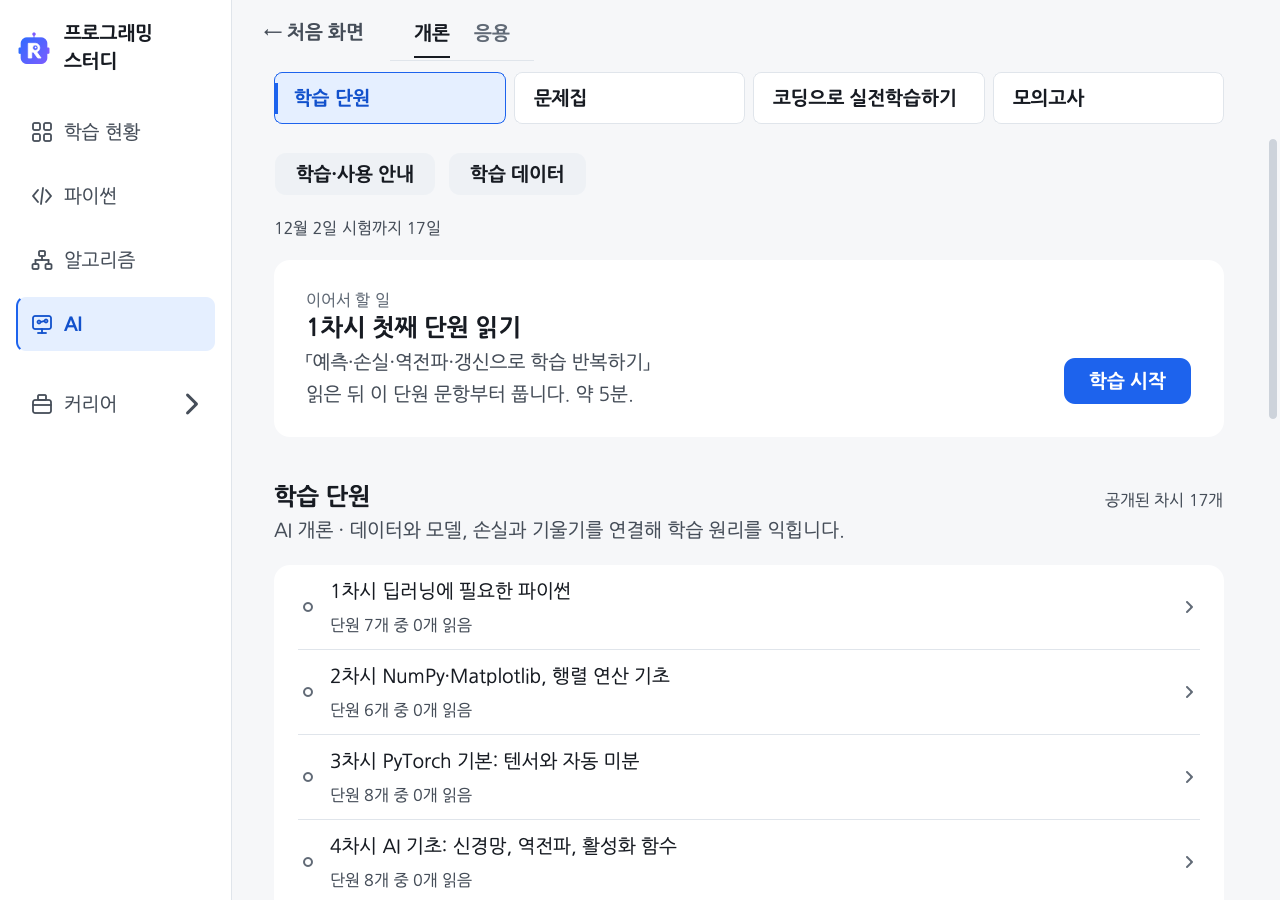
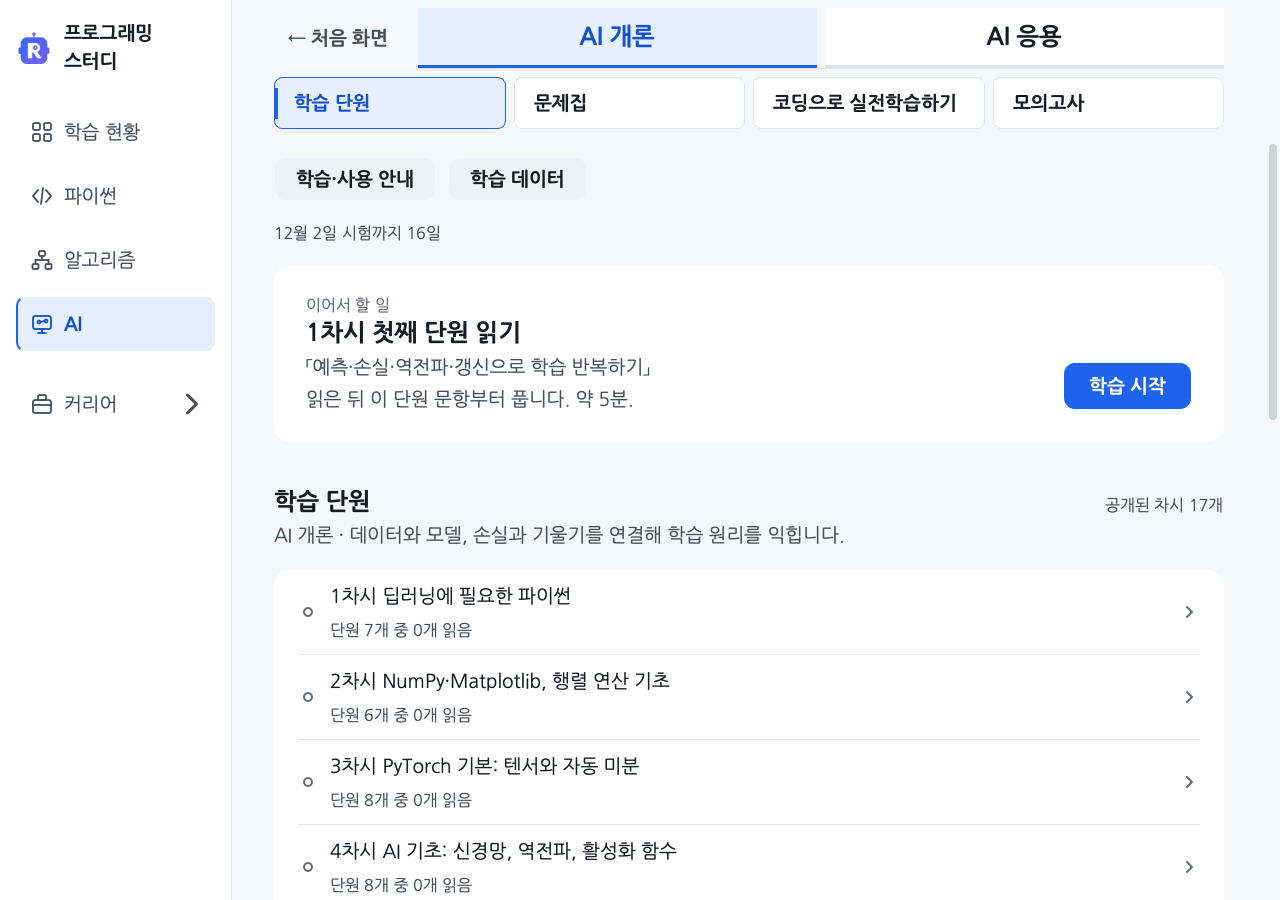
docs: AI 과정 선택 안내와 화면 사진 갱신

diff --git a/ai/README.md b/ai/README.md
@@ -8,7 +8,7 @@
 
 ROKEY AI 개론·응용의 개념과 코드를 익히는 트랙입니다. 차시마다 학습 단원을 읽고 그 단원에서 나온 빈칸·고르기 문제를 풉니다. 맞힌 문항도 며칠 간격을 두고 다시 나옵니다. 원하는 만큼 읽고 연습하세요. 개론 1\~17차시와 코딩 실습, 개론 모의고사 m1·m2·m3, 응용 1\~3차시와 [혼합 모의고사 m4·m5](#mixed-mock-exam)를 사용할 수 있습니다.
 
-첫 화면이나 왼쪽 메뉴에서 [AI]를 고르고 [개론]·[응용] 중 공부할 과정을 선택합니다. 그 아래 [학습 단원]·[문제집]·[코딩으로 실전학습하기]·[모의고사] 중 원하는 분류를 누릅니다. 선택한 분류의 목록만 표시하며 목록을 내려도 분류 선택은 화면 위에 남습니다. 프로그램을 켜 둔 동안 과정별 분류 선택과 각 목록의 읽던 위치를 기억합니다.
+첫 화면이나 왼쪽 메뉴에서 [AI]를 고르고 [AI 개론]·[AI 응용] 중 공부할 과정을 선택합니다. 선택한 과정에는 파란 배경과 밑줄이 표시됩니다. 그 아래 [학습 단원]·[문제집]·[코딩으로 실전학습하기]·[모의고사] 중 원하는 분류를 누릅니다. 선택한 분류의 목록만 표시하며 목록을 내려도 분류 선택은 화면 위에 남습니다. 프로그램을 켜 둔 동안 과정별 분류 선택과 각 목록의 읽던 위치를 기억합니다.
 
 [AI] → [학습 단원]에서 [학습·사용 안내]와 [학습 데이터]를 엽니다. [학습·사용 안내]는 실제 화면에 번호와 테두리를 표시한 안내 팝업입니다. [이전]·[다음]으로 넘기며 따라 하고 작은 글씨는 [크게 보기]로 확인합니다. 학습 단원을 읽고 [연습 시작]으로 문제를 푼 뒤 [문제집]에서 복습할 수 있습니다.
 
